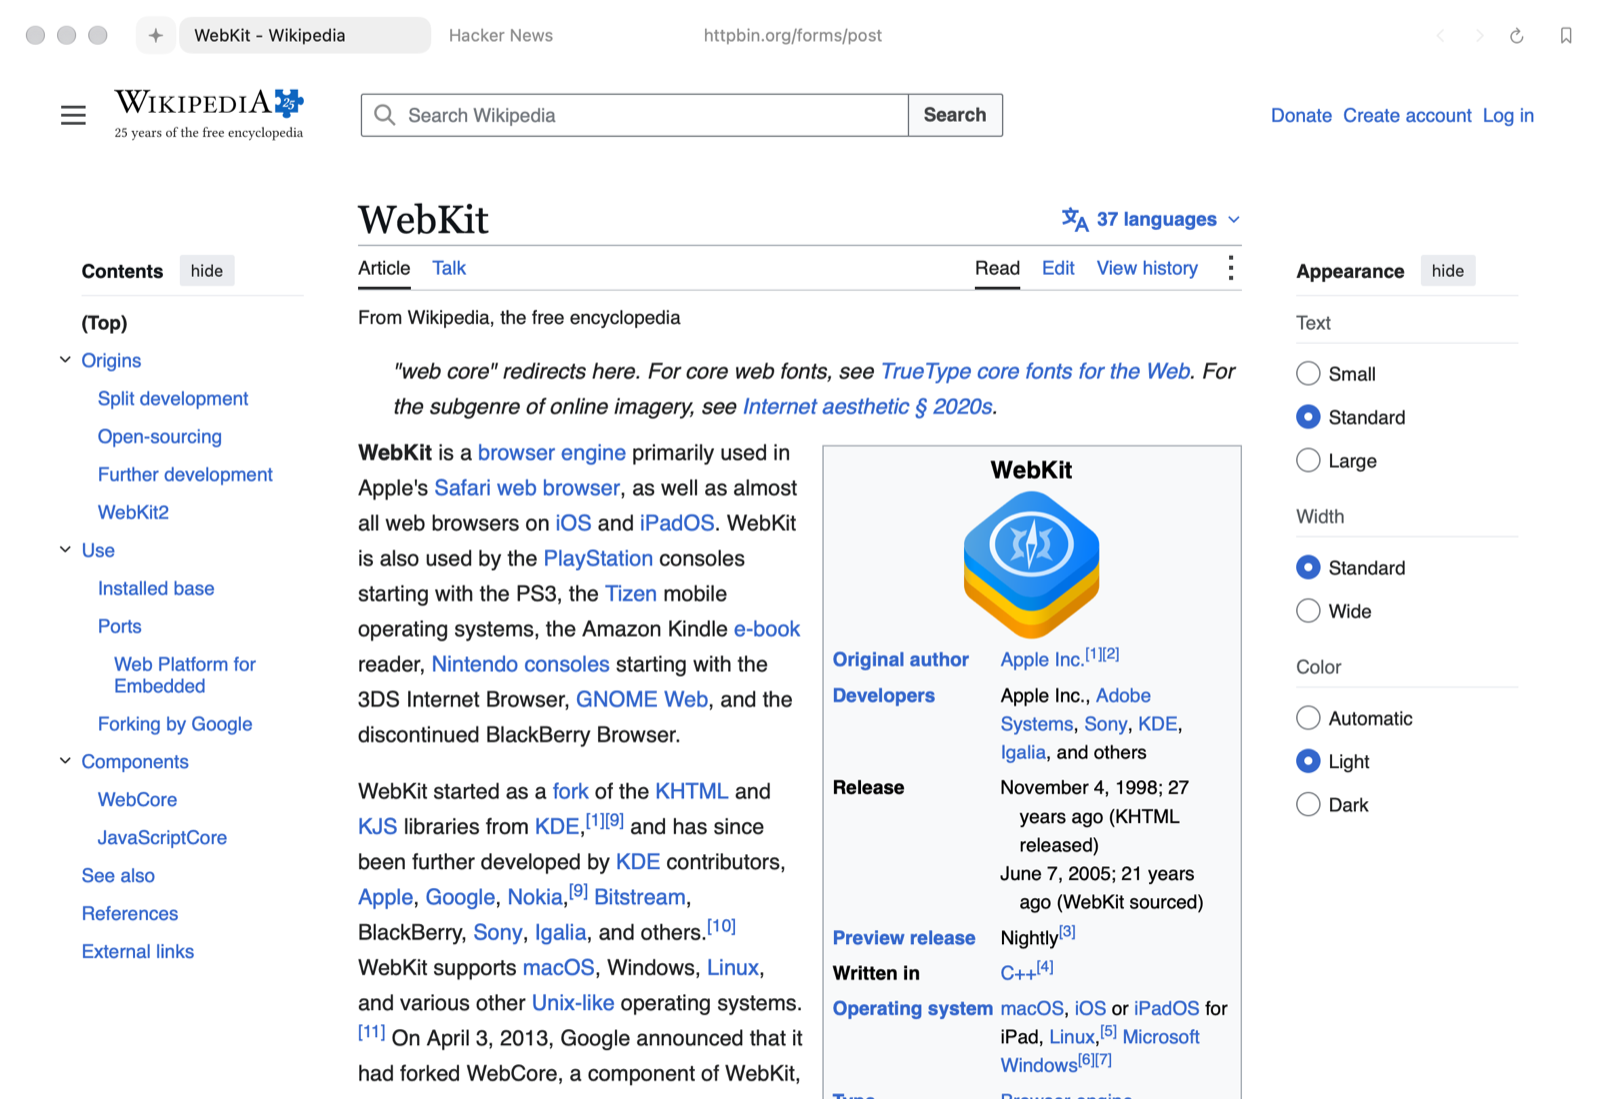
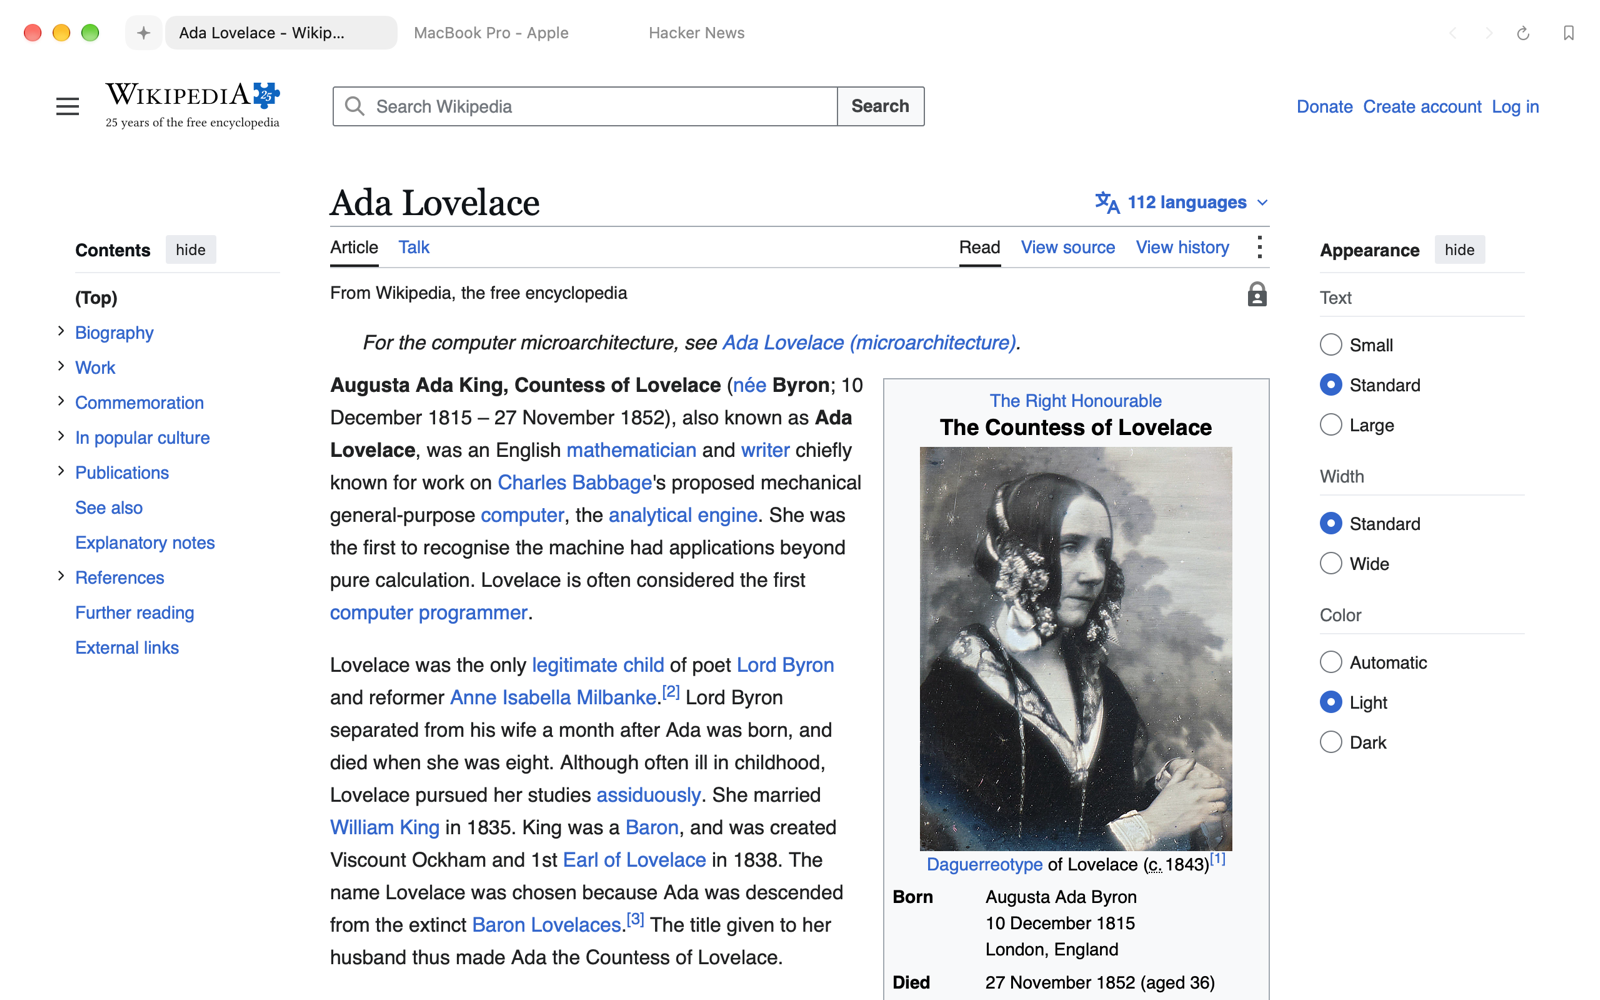
README for browse, with pictures of it as it is now
Themes (the Codegraff ones, and one Codegraff made from a sentence),
the account and sync, updates, what leaves the Mac, and releasing from
CI. New pictures of the browser, Settings › Themes, the Ask tab in
Codegraff dark, the welcome's sign-in and Settings › Sync.

The welcome card no longer says "Sign in with Codegraff" twice, and a
test run can open the welcome on a given page for pictures of it.

diff --git a/Sources/Browse/Account.swift b/Sources/Browse/Account.swift
@@ -272,7 +272,9 @@ struct AccountCard: View {
                         .padding(.bottom, 12)
                 }
             case .signedOut, .failed:
-                Line("Sign in with Codegraff", failure ?? "Keeps your bookmarks and history in step across your Macs, and lets Codegraff work beside the page") {
+                Line(inline ? "Your Codegraff account" : "Sign in with Codegraff", failure ?? (inline
+                    ? "A code, and one click on codegraff.com to approve it"
+                    : "Keeps your bookmarks and history in step across your Macs, and lets Codegraff work beside the page")) {
                     Pill("Sign in", filled: true) { begin() }
                 }
             }

diff --git a/Sources/Browse/Welcome.swift b/Sources/Browse/Welcome.swift
@@ -8,7 +8,9 @@ struct WelcomePanel: View {
     @ObservedObject var browser: Browser
     @ObservedObject var prefs: Preferences
 
-    @State private var page = 0
+    /// A test run can open on another page (the welcome.start setting), for
+    /// pictures of it.
+    @State private var page = Store.testing ? Store.settings.integer(forKey: "welcome.start") : 0
     @State private var forward = true
 
     // Bringing things over.

diff --git a/README.md b/README.md
@@ -2,13 +2,9 @@
 
 <img src="Icon/browse.png" alt="browse icon" width="96">
 
-A Codegraff browser for the Mac. Browse with WebKit, ask about what you're reading, research something, or have [Codegraff](https://github.com/justrach/codegraff) fill in a form while you watch.
+A small, fast browser for the Mac, with [Codegraff](https://github.com/justrach/codegraff) beside the page. Read, search, and ask about what you're reading; have Codegraff research something, fill in a form, or make you a theme from a sentence. Your bookmarks, history and themes follow you between Macs, sealed so only your Macs can read them.
 
-**[Download for macOS](https://github.com/justrach/search/releases/latest)** · macOS 14 or later · open the disk image and drag the app to Applications
-
-![Illustration of a browser page with an assistant panel beside it](docs/readme-banner.png)
-
-*Illustration above; the images below show the app.*
+**[Download for macOS](https://github.com/justrach/browse/releases/latest)** · macOS 14 or later · signed and notarized · it keeps itself up to date
 
 ![browse showing a Wikipedia article, with the tabs across the top](docs/screenshots/browse.png)
 
@@ -17,15 +13,29 @@ A Codegraff browser for the Mac. Browse with WebKit, ask about what you're readi
 Tabs and the page, and nothing else in the way.
 
 - **One field.** ⌘L to type an address or a search; it finishes addresses from your own history. ⌘K switches to a tab you already have open.
-- **Tabs your way.** Across the top or down the side. Pin the ones you keep all day, and tabs you haven't looked at in a while go to sleep and give their memory back.
+- **Tabs your way.** Across the top or down the side. Pin the ones you keep all day; tabs you haven't looked at in a while sleep and give their memory back.
 - **Built in, not bolted on.** An ad and tracker blocker that runs before the page loads, reading mode (⇧⌘R), video that floats above everything (⇧⌘P), and ⇧⌘H to hide anything on a site for good.
 - **Passwords in your keychain,** offered once a sign-in has actually worked.
 - **Chrome extensions** from the Chrome Web Store, on macOS 15.4 or later.
-- **Light, dark, or the Mac's own.** It runs on WebKit, the engine already in macOS, so the whole app is a few megabytes and opens at once.
+- **Small.** It runs on WebKit, the engine already in macOS, so the app is a few megabytes and opens at once.
+
+## Themes
+
+Pick how it looks in Settings › Themes: browse's own white and greys, **Codegraff** (the Codegraff app's warm graphite and amber), **Codegraff Paper** (codegraff.com's paper, ink and coral), Nord or Forest — each for light and for dark.
+
+![Settings › Themes, with the Codegraff theme chosen](docs/screenshots/themes.png)
+
+Or describe one. Say what it should feel like and Codegraff picks the colours for light and dark, checks every one reads, and switches to it.
+
+![Codegraff made a theme called Desert Evening from a sentence, and the whole window wears it](docs/screenshots/make-a-theme.png)
+
+A theme is a small JSON file — add one from a file, share yours, or open the themes folder and edit one by hand. The ones you add or make sync to your other Macs.
+
+![The Ask tab in the Codegraff theme, dark](docs/screenshots/ask-dark.png)
 
 ## Codegraff, beside the page
 
-The sparkle at the head of the tab row is the Ask tab. It opens Codegraff's own page: one field that asks it anything (Tab switches it to a plain search), and your conversations so far, each a card you can pick back up.
+The sparkle at the head of the tab row is the Ask tab: one field that asks Codegraff anything (Tab switches it to a plain search), and your conversations so far, each a card you can pick back up.
 
 ![The Ask tab: a field for a question and the chats so far](docs/screenshots/ask.png)
 
@@ -37,47 +47,57 @@ Ask about the page you're on with ⌘↩ in the address field or ⇧⌘A, and th
 
 ![Codegraff in a column beside Hacker News, listing the top five stories with links](docs/screenshots/beside-the-page.png)
 
-It can use the browser too: search, read many pages at once, click, type, and **fill in forms**. It reads a form the way you do (labels, choices, what's required) and fills it in on your tab in front of you. It's told to ask before sending anything that pays, posts, books or signs you up, so check what it has filled before it submits anything that matters.
-
-For work of many small steps, like a search with its filters or a date picker, Codegraff can hand the clicking to [Jev](https://docs.typesafe.ai/introduction), the way [jev-ultrafast](https://github.com/browser-use/jev-ultrafast) does. Each step is one quick call that picks the action and the element. Codegraff's model still plans the task and gives Jev the text to type, and Jev doesn't make up any text of its own. It goes through your Codegraff sign-in. Settings › Agent › Quick steps with Jev turns it off.
+It uses the browser too: search, read many pages at once, click, type, and **fill in forms**. It reads a form the way you do — labels, choices, what's required — and fills it in on your tab in front of you. It's told to ask before sending anything that pays, posts, books or signs you up; check what it filled before anything that matters goes.
 
 ![Codegraff has filled in a pizza order form on the page and says it did not submit it](docs/screenshots/fill-a-form.png)
 
+For work of many small steps — a search with its filters, a date picker — Codegraff hands the clicking to [Jev](https://docs.typesafe.ai/introduction), the way Browser Use's [jev-ultrafast](https://github.com/browser-use/jev-ultrafast) does: one quick call a step picks the action and the element, about half a second each. Codegraff's model still plans the task and says what gets typed; Jev makes nothing up.
+
 The model picker under the field searches every model your Codegraff account reaches.
 
-### What Codegraff needs
+## Your Codegraff account, and sync
 
-The browser doesn't ship an agent. It runs the `graff` command already on your Mac, the one the [Codegraff](https://github.com/justrach/codegraff) app installs, and uses your own Codegraff sign-in. Without it the browser works as normal, and the Ask tab offers to get it for you.
+Sign in once — on the welcome screens, or in Settings — with a code and one click on codegraff.com. That one sign-in is what Codegraff, Jev and sync use, and it's the same one `graff login` makes, so the graff in your terminal is signed in too.
 
-- **What leaves your Mac:** what you type to Codegraff, and the text of the page when you ask about it, go to the model provider your Codegraff account uses. When Jev takes the steps, the page's visible words and controls go to Jev through Codegraff. Password fields never go. With sync on (Settings › Sync, off until you switch it on), your history and bookmarks go to Codegraff sealed with a key only your Macs hold, so Codegraff can't read them. Nothing else leaves.
-- **It stays light:** by default it runs with the browser's tools and its own, not every MCP server your other apps know about (Settings › Agent can include them). After ten quiet minutes it stops, and your next message picks the same conversation up.
-- **It acts without stopping to ask** before each step, as `graff acp --yolo` does, including commands and file edits on your Mac. Treat it as you would any agent with those powers.
+![The welcome screen's sign-in step](docs/screenshots/sign-in.png)
 
-Turn it all off in Settings › Agent.
+Switch on sync in Settings › Sync and your history, bookmarks and themes are the same on every Mac you sign in on. Everything is **sealed on your Mac** before it leaves, with a key only your Macs hold — you carry it to the next Mac as a sync code — so Codegraff stores it without being able to read it, not even the addresses. Forget a page or clear your history, move or delete a bookmark, and it happens everywhere. Settings › Sync can also delete everything synced from Codegraff's server.
+
+![Settings › Sync, with the account and the switch](docs/screenshots/sync.png)
+
+## Updates
+
+browse checks for a new version once a day, fetches it quietly, checks it's this app, newer, and signed by the same developer, and has it ready the next time you open it — or now, with Relaunch in Settings › About. Nothing you've set is touched.
+
+## What leaves your Mac
+
+- What you type to Codegraff, and the text of the page when you ask about it, go to the model provider your Codegraff account uses. When Jev takes the steps, the page's visible words and controls go to Jev through Codegraff. Password fields never go.
+- With sync on, your history, bookmarks and themes go to Codegraff sealed, as above.
+- With anonymous stats on (Settings › Privacy, off by default): this Mac's chip, cores, memory and macOS version, and how much memory the app uses — under a random id, [added up here](https://search-codegraff-stats.rachpradhan.workers.dev).
+- The daily update check asks GitHub for the latest release.
+
+Nothing else. Codegraff doesn't ship inside the app: it runs the `graff` command already on your Mac (the one the Codegraff app installs), and it acts without stopping to ask before each step, commands and file edits included — treat it as you would any agent with those powers. Turn it all off in Settings › Agent.
 
 ## Known limits
 
-- Passkeys aren't available in this build yet. They need a provisioning profile of this app's own, which it doesn't have.
-- It doesn't update itself yet. New versions appear on the [releases page](https://github.com/justrach/search/releases).
+- Passkeys aren't available yet: they need a provisioning profile of this app's own.
+- Sync needs Codegraff's server to support it; until it does, Settings › Sync says so.
+- Versions before 1.0.2 don't check for updates; they need the next one downloaded by hand, once.
 
 ## Build it yourself
 
-You need macOS 14 or later and Xcode 16 (Swift 6).
+macOS 14 or later and Xcode 16.
 
 ```sh
-swift build                        # the SwiftPM executable
-./build.sh                         # build/browse.app, signed for this Mac
+swift build              # the SwiftPM executable
+./build.sh               # build/browse.app, signed for this Mac
 open build/browse.app
 ```
 
-`./build.sh release dmg` also makes `build/browse.dmg` and `build/browse.zip`. `SEARCH_NOTARY_PROFILE=<profile> ./build.sh release ship` signs and notarizes them with your Developer ID and a `notarytool store-credentials` profile of your own.
+`./fresh.sh` opens a copy with a profile of its own, apart from the one you browse with, and `./bench` drives a running copy from the shell (Settings › General › "Let a script drive browse"); see `skill/browse-bench/SKILL.md`. The code is SwiftUI and AppKit in `Sources/Browse/`.
 
-`./fresh.sh` opens a copy with a profile of its own, apart from the one you browse with. `./bench` drives a running copy from the shell once Settings › General › "Let a script drive browse" is on. See `skill/search-bench/SKILL.md`.
-
-The app keeps its data in `~/Library/Application Support/Search by Codegraff/`, under the bundle identifier `com.codegraff.search`. This name change preserves existing profiles.
-
-The SwiftUI and AppKit code is in `Sources/Search/`. `Agent.swift`, `AgentColumn.swift`, `AgentHome.swift`, and `AgentTools.swift` connect the browser to Codegraff.
+Releases come from CI: `./release.sh 1.0.2 "What's new."` tags a version, and a GitHub Actions workflow builds, signs, notarizes and publishes it — which is also how every installed copy gets it. [docs/releasing.md](docs/releasing.md) has the details, [AGENTS.md](AGENTS.md) the rules for working here.
 
 ## License
 
-browse is a Codegraff product released under [AGPL-3.0](LICENSE). Code from before the Codegraff work remains the property of its original owner and retains its [MIT license and copyright notice](LICENSE.MIT).
+browse is a Codegraff product released under [AGPL-3.0](LICENSE). Code from before the Codegraff work remains its original owner's under its [MIT license and copyright notice](LICENSE.MIT); the Jev step code adapts Browser Use's jev-ultrafast (MIT).
